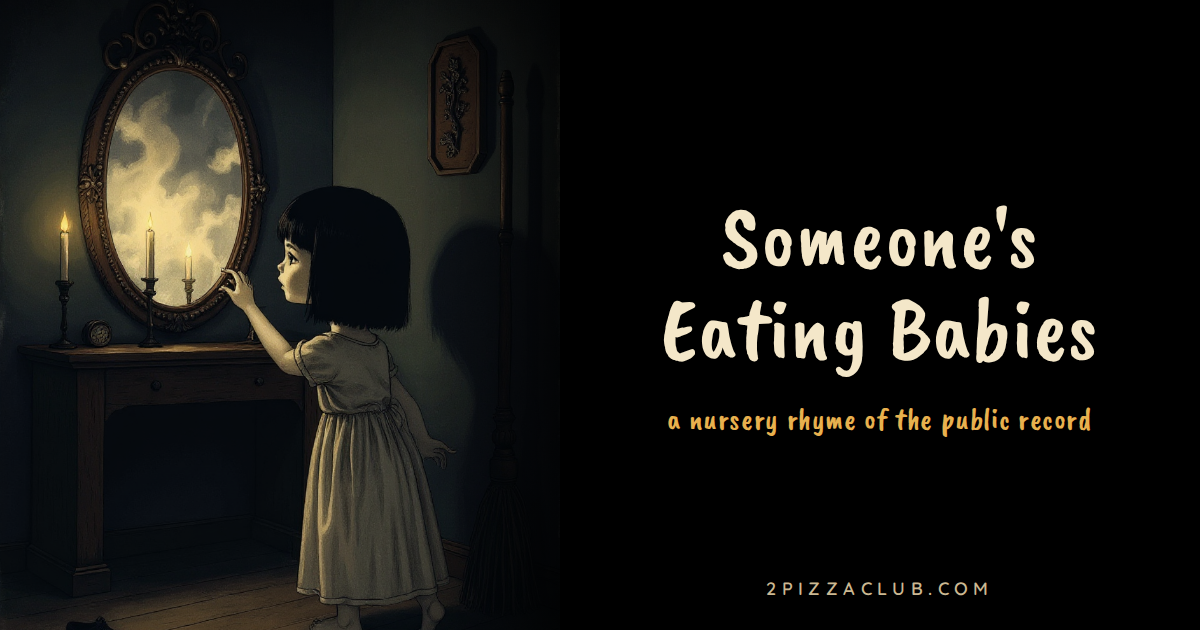
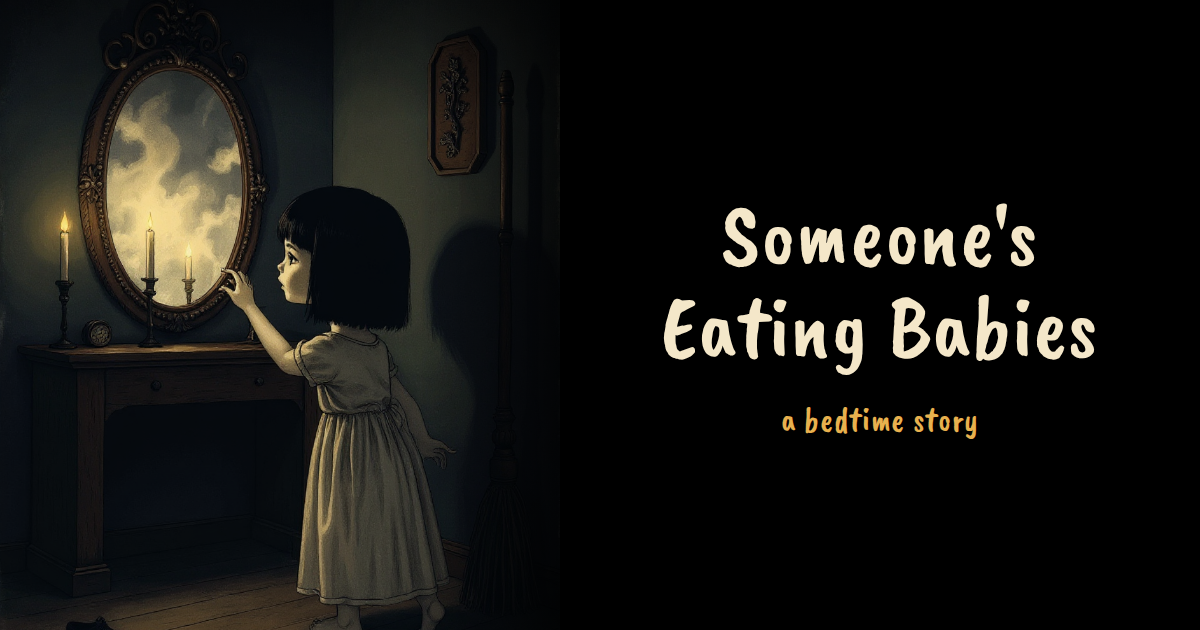
Tweak eating share card: subtitle "a bedtime story", drop signature
Bump og:image/twitter:image to ?v=2 so social platforms refetch the
new card instead of a cached copy.

diff --git a/eating/index.html b/eating/index.html
@@ -12,14 +12,14 @@
     <meta property="og:title" content="Someone's Eating Babies">
     <meta property="og:description" content="A nursery rhyme of the public record.">
     <meta property="og:url" content="https://2pizzaclub.com/eating/">
-    <meta property="og:image" content="https://2pizzaclub.com/eating/og-card.png">
+    <meta property="og:image" content="https://2pizzaclub.com/eating/og-card.png?v=2">
     <meta property="og:image:width" content="1200">
     <meta property="og:image:height" content="630">
     <meta property="og:image:alt" content="Someone's Eating Babies — a child at a candlelit mirror">
     <meta name="twitter:card" content="summary_large_image">
     <meta name="twitter:title" content="Someone's Eating Babies">
     <meta name="twitter:description" content="A nursery rhyme of the public record.">
-    <meta name="twitter:image" content="https://2pizzaclub.com/eating/og-card.png">
+    <meta name="twitter:image" content="https://2pizzaclub.com/eating/og-card.png?v=2">
 
     <link rel="icon" type="image/svg+xml" href="/icon.svg">
     <link rel="icon" type="image/png" sizes="32x32" href="/favicon-32.png">
